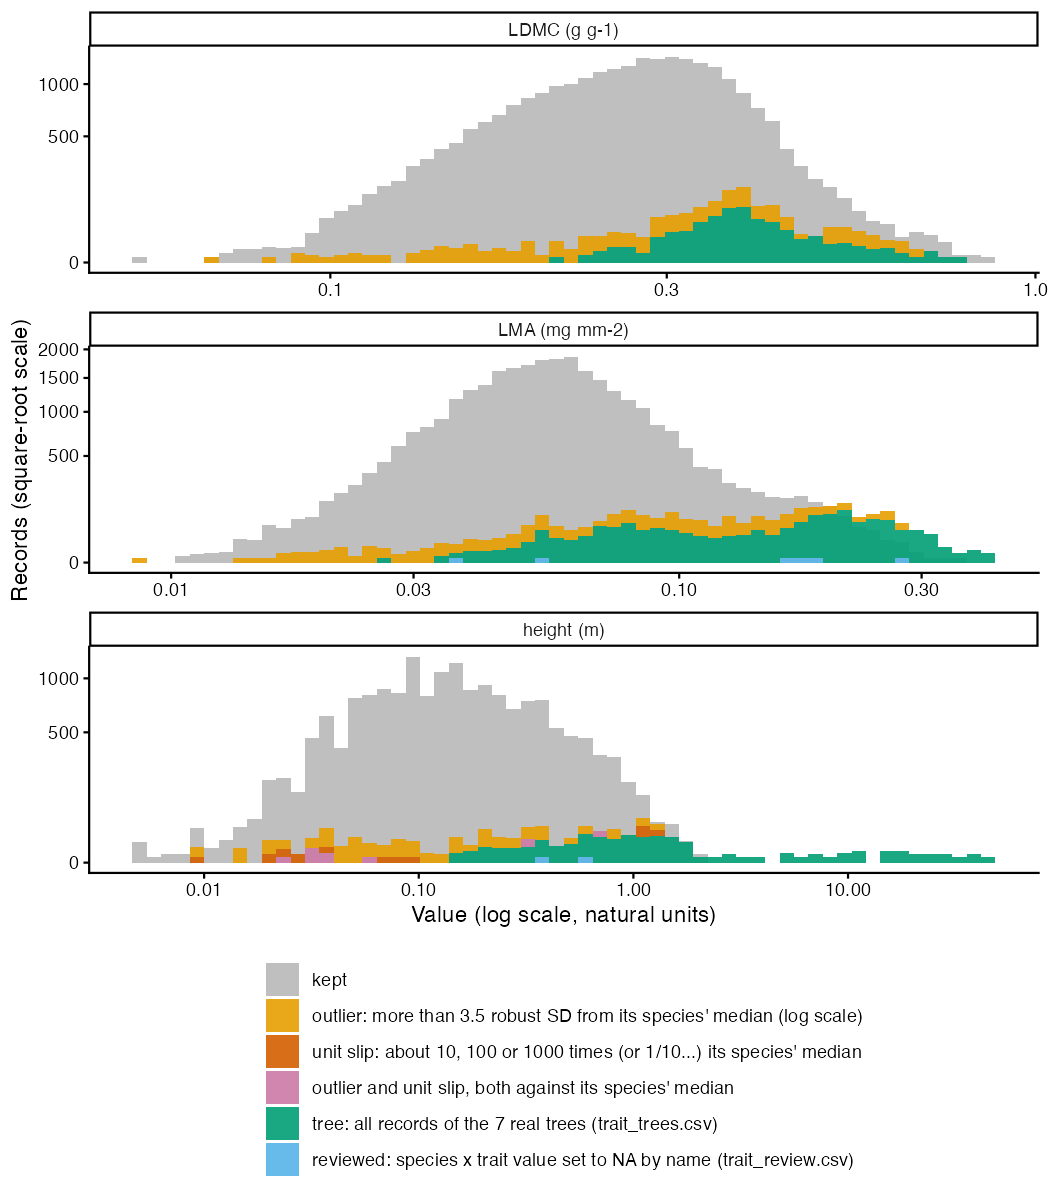
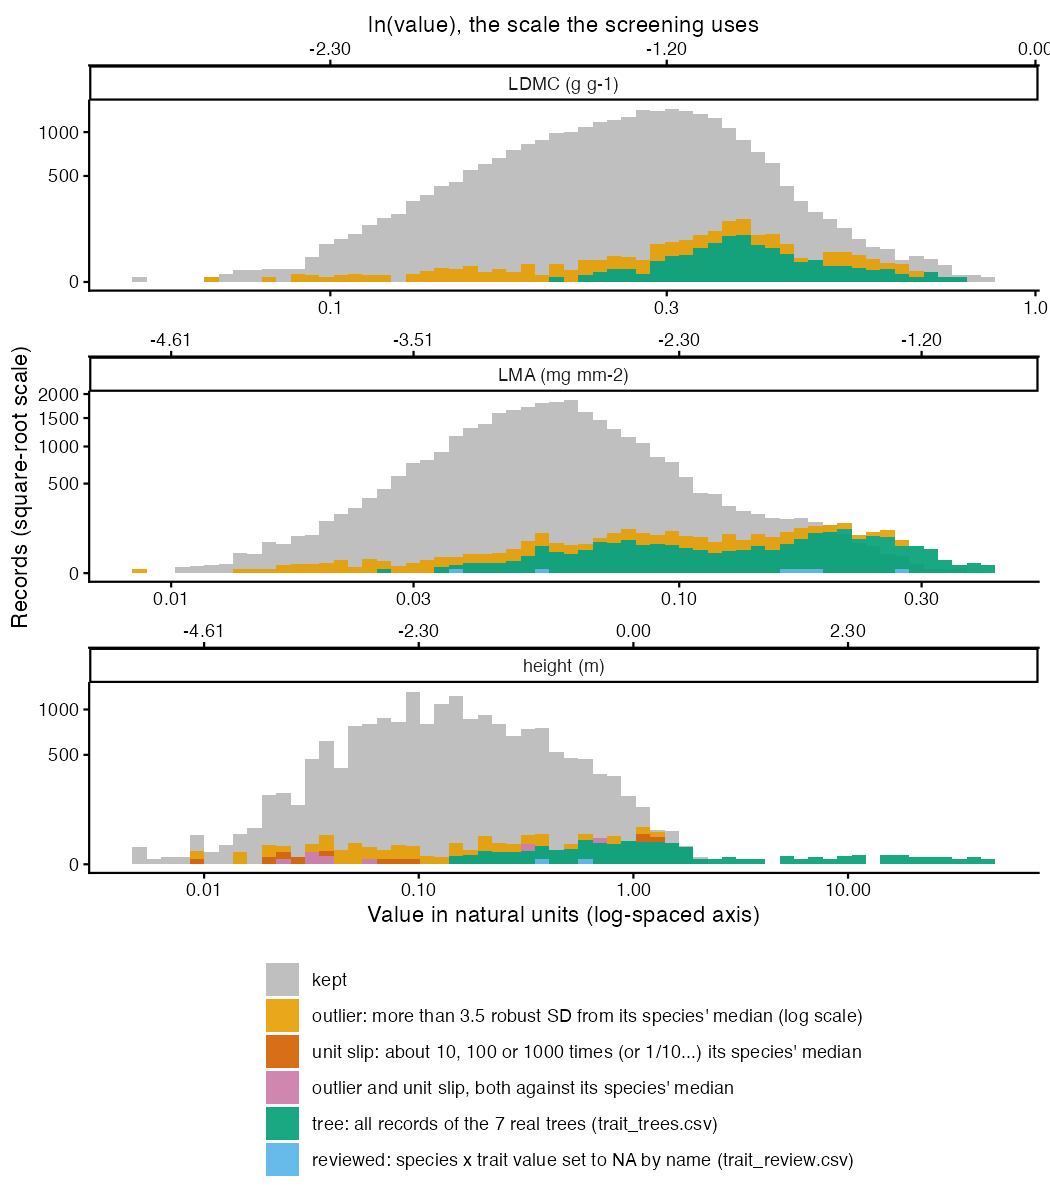
P2: screening histogram gets a top axis in ln(value); P7: dataset-offset figure removed (Bills)

diff --git a/reports/P7_trait_checks.md b/reports/P7_trait_checks.md
@@ -42,8 +42,6 @@ Known case (P2 notes): Euphrasia officinalis LMA from dataset 524 flagged at rec
 | height | 547 | 0.661 | 18 | 19 | 21 | 5 |
 | height | 320 | 0.663 | 42 | 601 | 45 | 16 |
 
-![Dataset offsets](../figures/diagnostics/P7_dataset_offsets.png)
-
 ## Records: the 20 largest departures from their species median
 
 | species | trait | dataset_id | observation_id | SpeciesName | value | species_median | ratio | z | reason |
